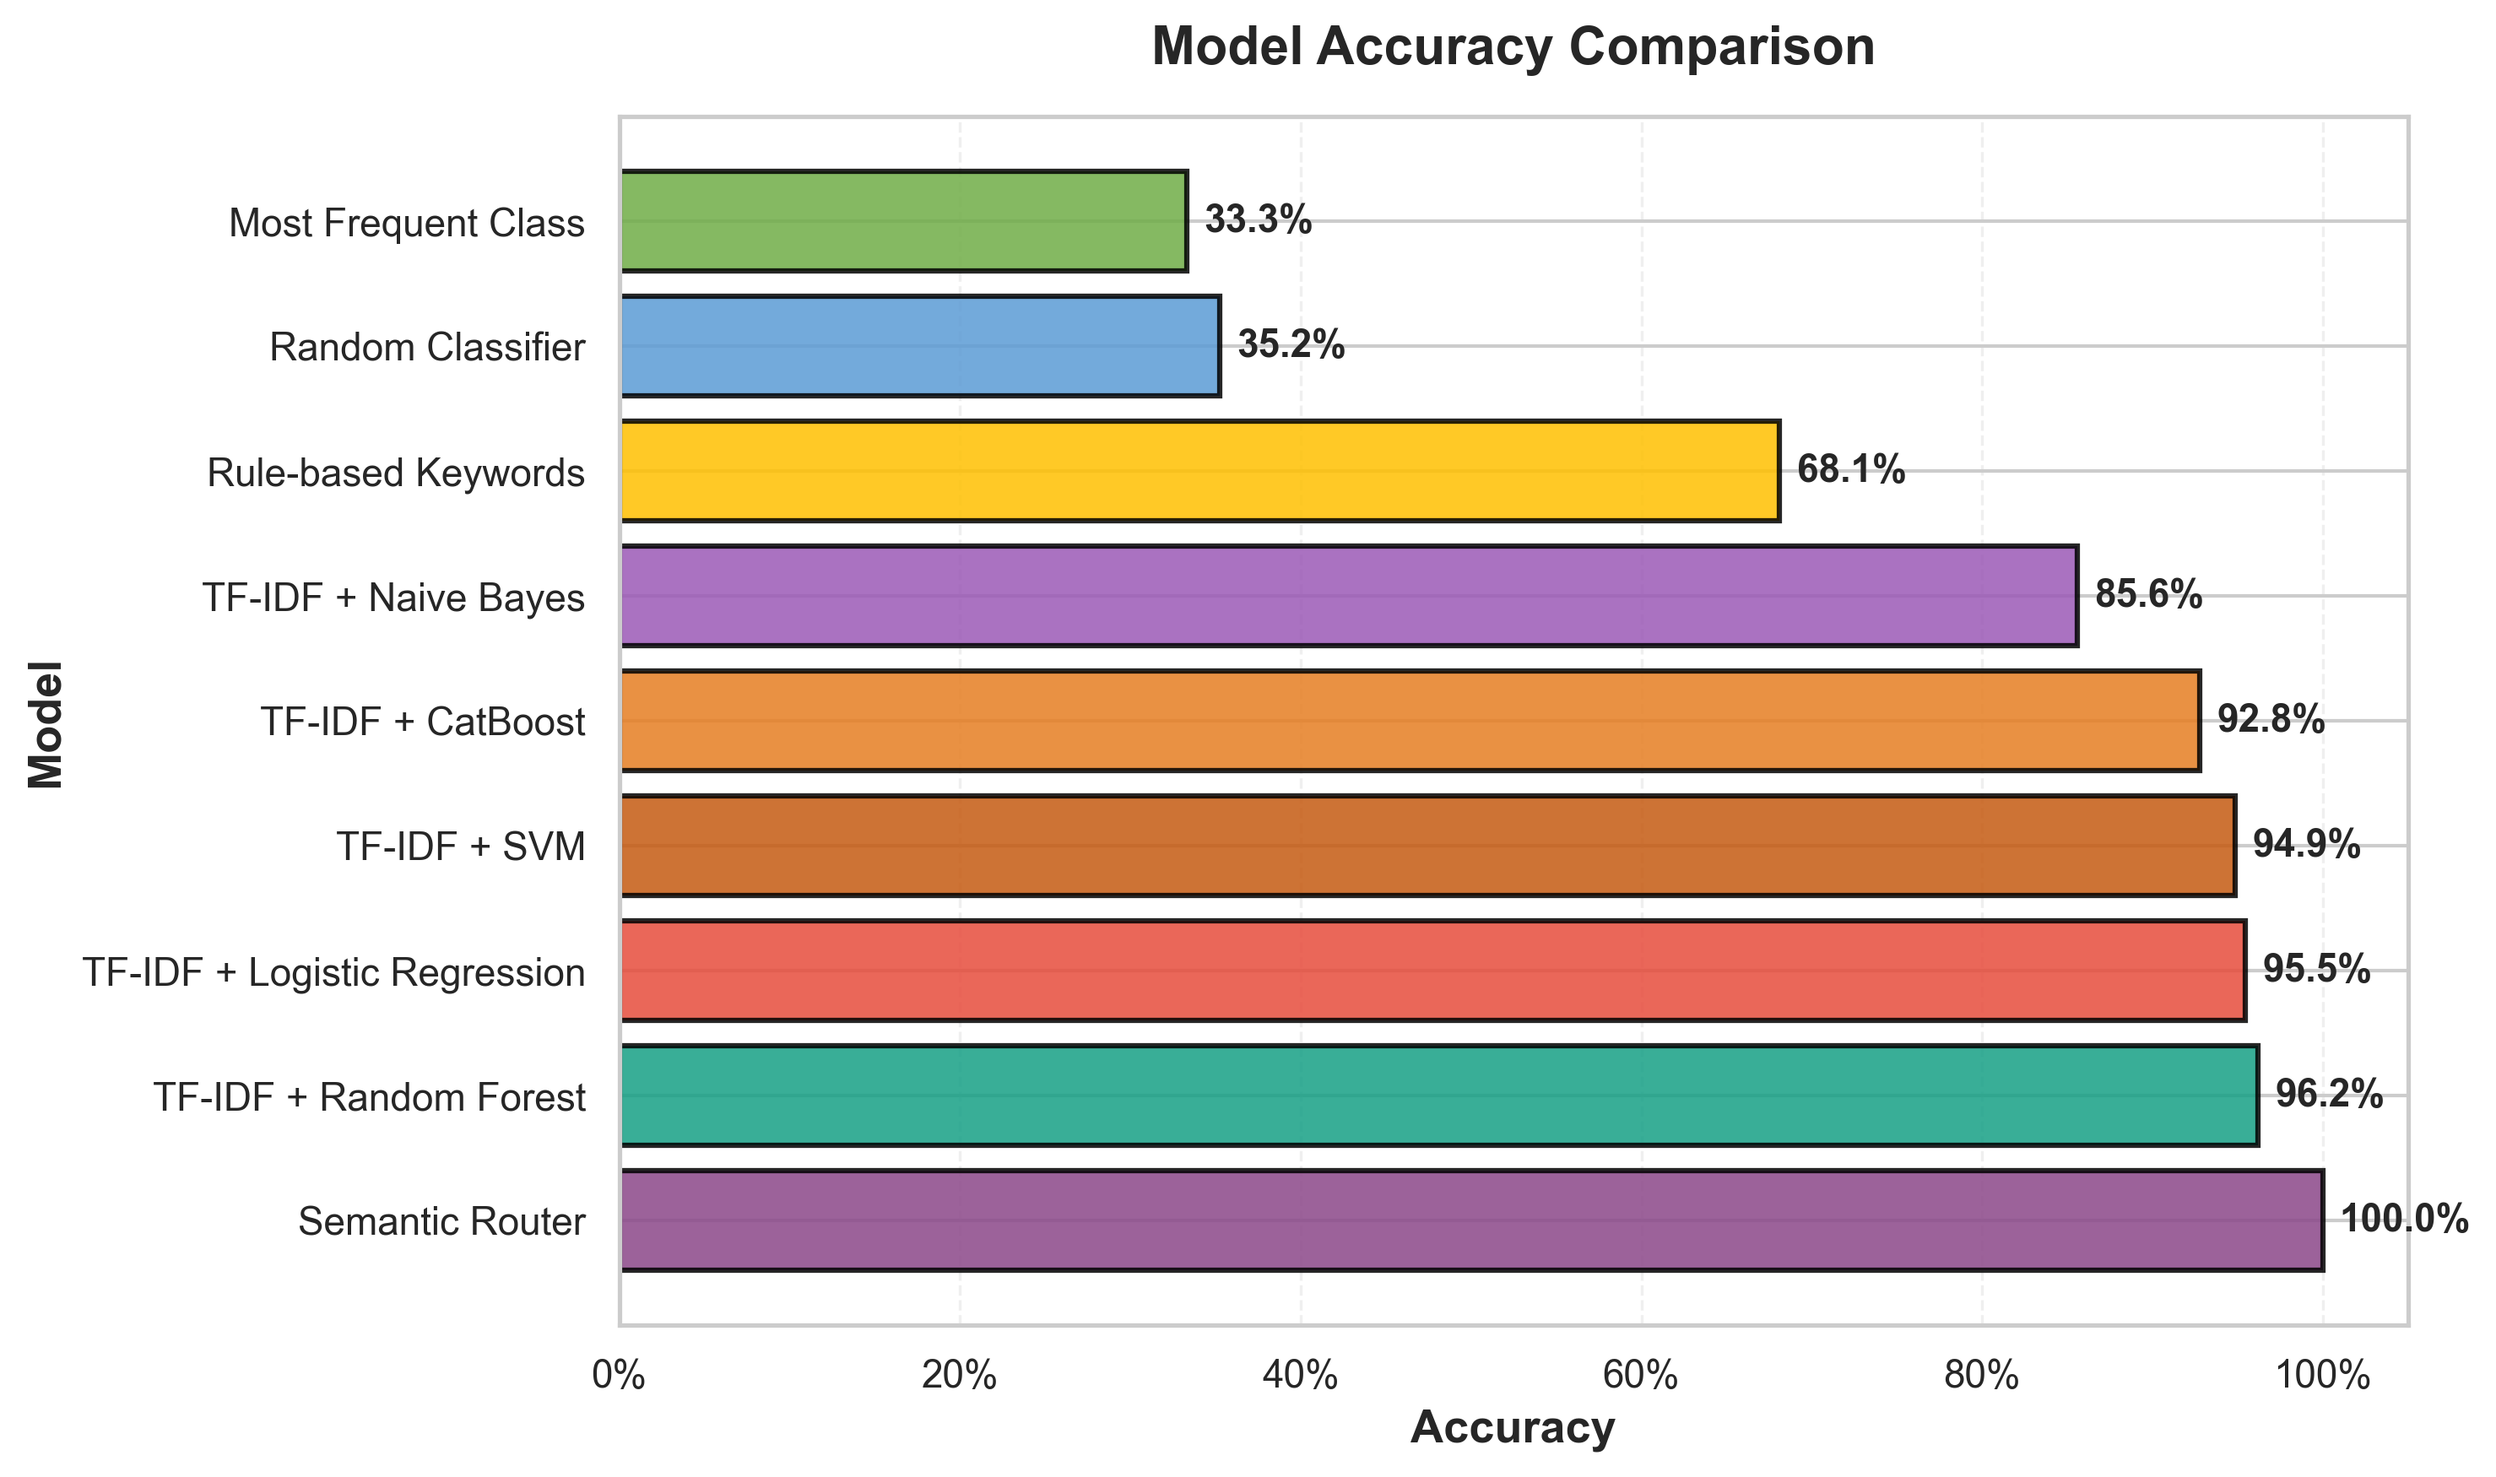
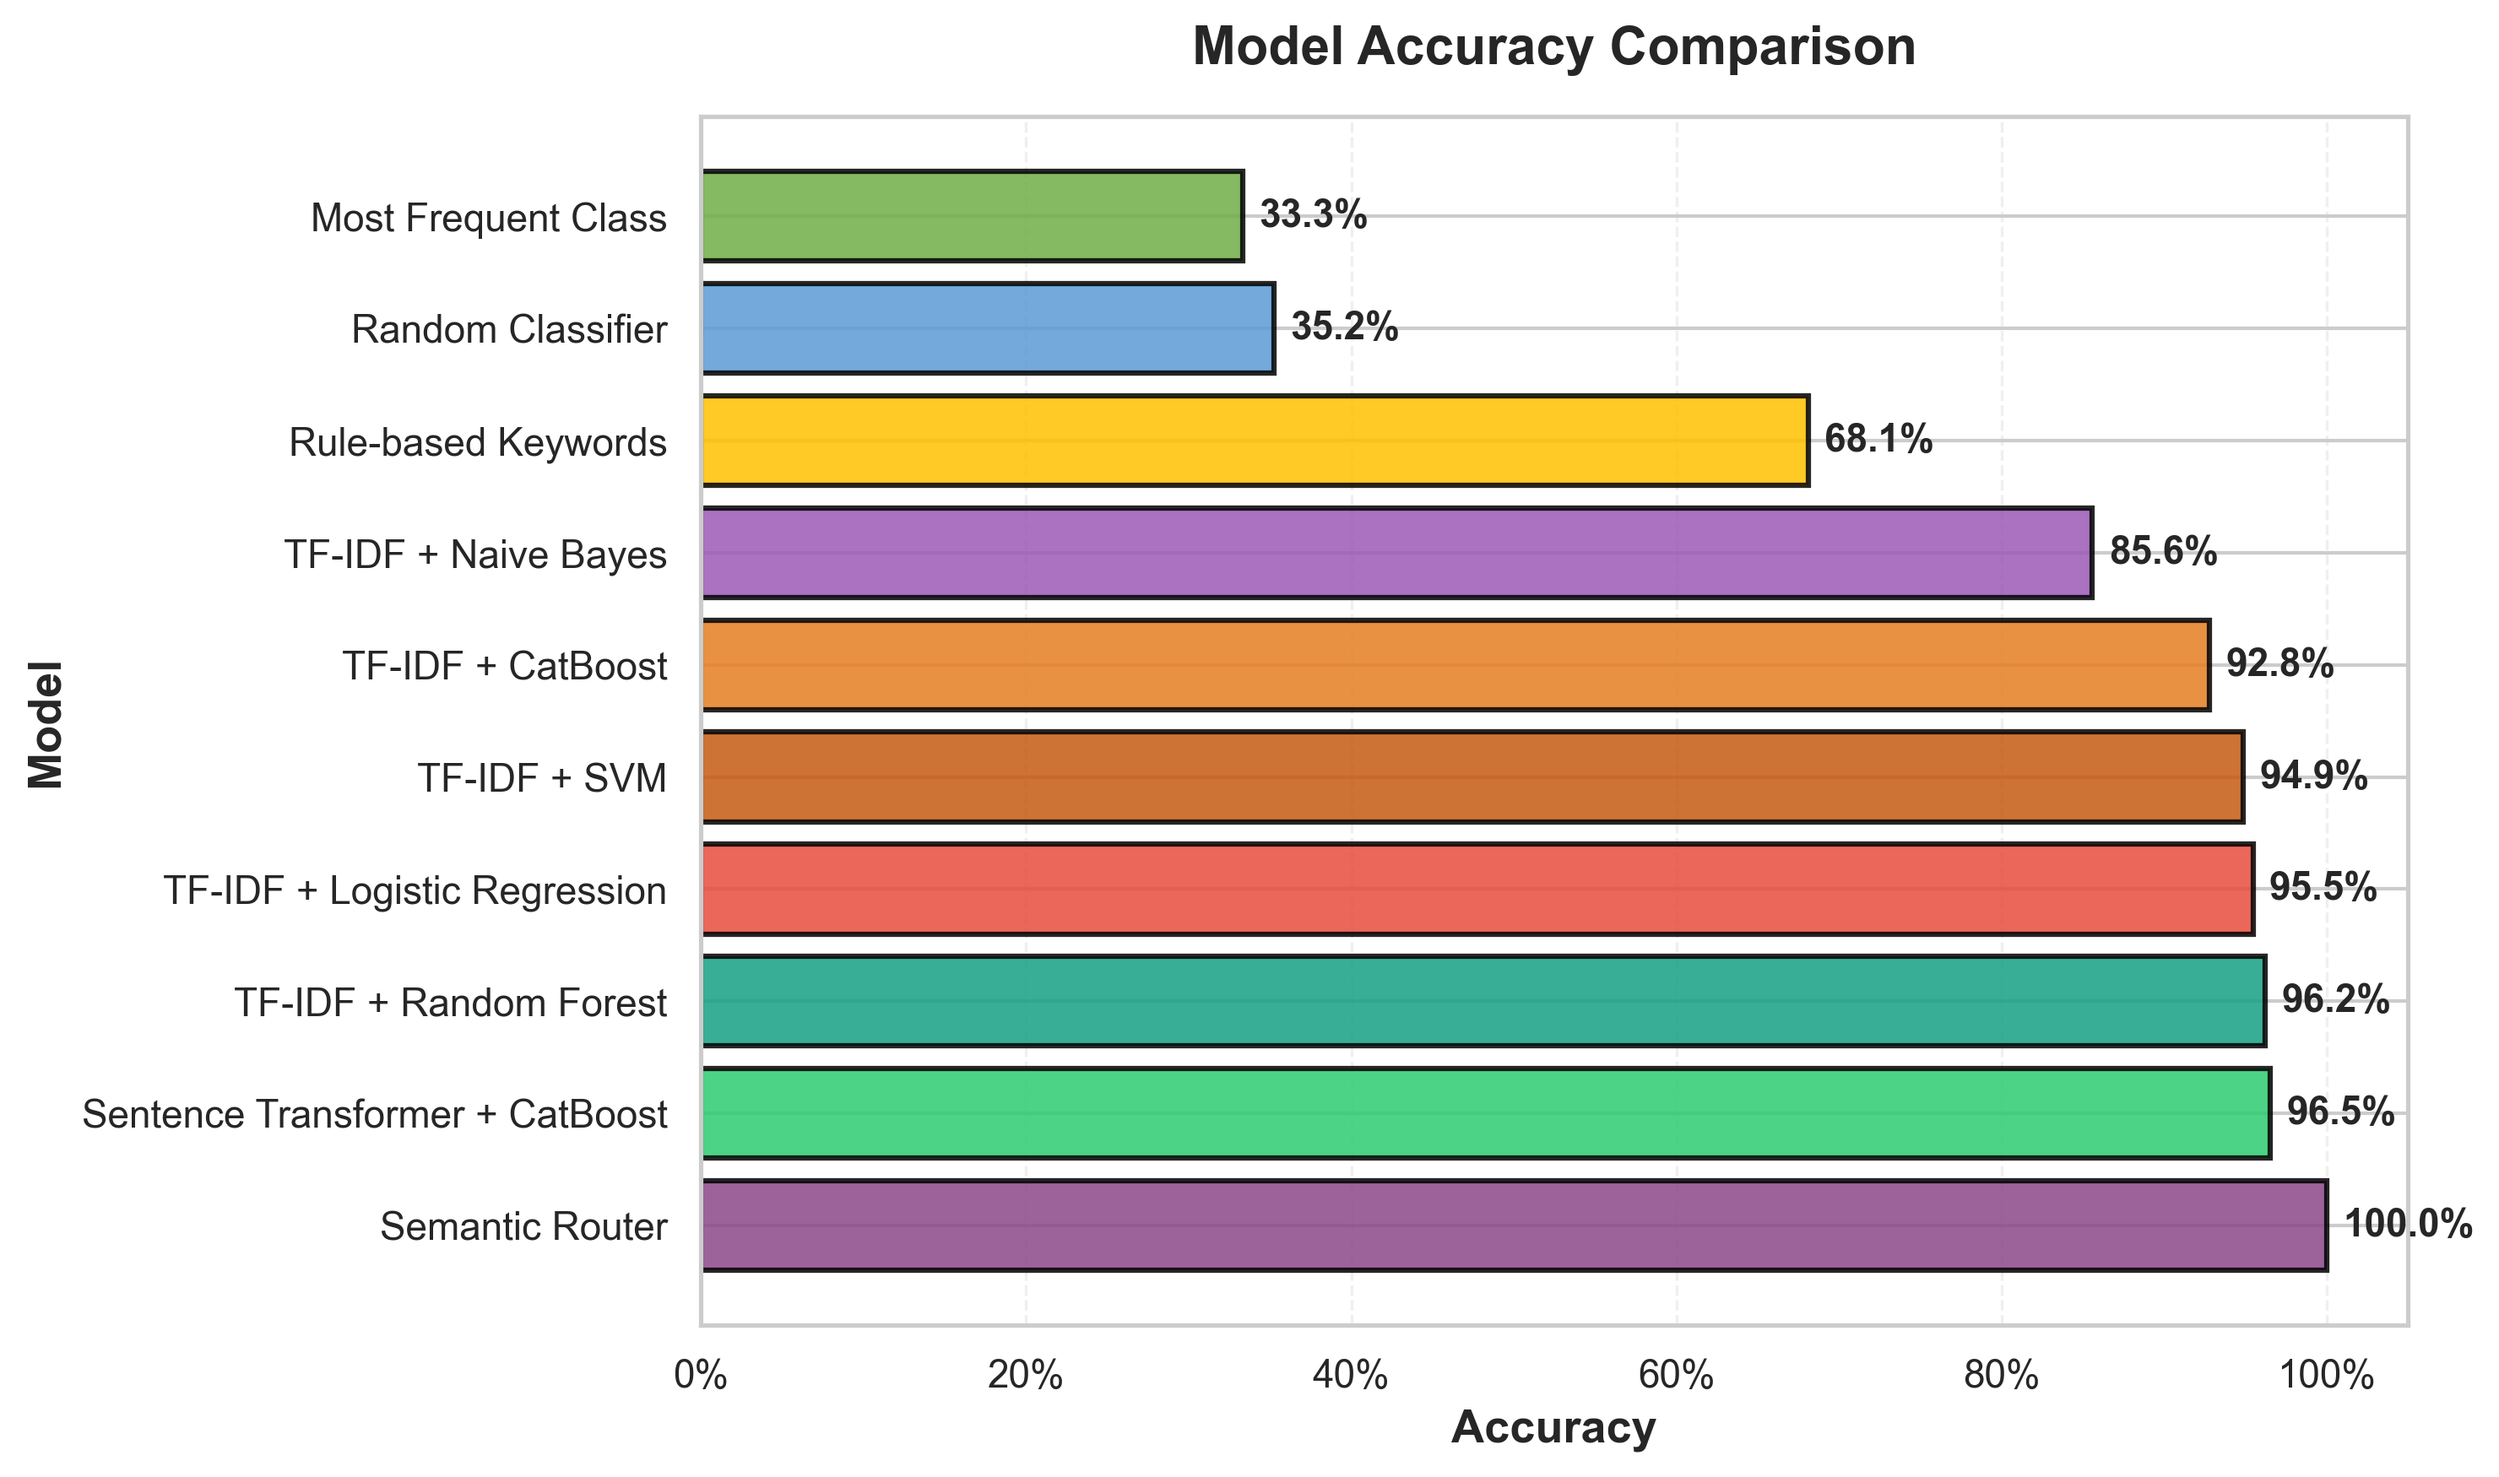
Updated results

diff --git a/evaluation_results/evaluation_report.md b/evaluation_results/evaluation_report.md
@@ -1,20 +1,21 @@
 # Comprehensive Evaluation Report
 
-**Date**: 2025-11-06 01:09:33
+**Date**: 2025-11-06 03:08:01
 
 ## 1. Overall Performance Comparison
 
 | Model | Accuracy | Avg Latency (ms) | Throughput (q/s) |
 |---|---|---|---|
-| **Semantic Router** | **1.000** | 43.915 | 22.77 |
-| **TF-IDF + Random Forest** | **0.962** | 0.357 | 2803.27 |
-| **TF-IDF + Logistic Regression** | **0.955** | 0.016 | 64229.34 |
-| **TF-IDF + SVM** | **0.949** | 0.488 | 2050.69 |
-| **TF-IDF + CatBoost** | **0.928** | 1.950 | 512.93 |
-| **TF-IDF + Naive Bayes** | **0.856** | 0.001 | 746013.49 |
-| **Rule-based Keywords** | **0.681** | 0.026 | 38669.88 |
-| **Random Classifier** | **0.352** | 0.000 | 5459508.64 |
-| **Most Frequent Class** | **0.333** | 0.000 | 8166042.96 |
+| **Semantic Router** | **1.000** | 53.624 | 18.65 |
+| **Sentence Transformer + CatBoost** | **0.965** | 45.439 | 22.01 |
+| **TF-IDF + Random Forest** | **0.962** | 0.362 | 2763.58 |
+| **TF-IDF + Logistic Regression** | **0.955** | 0.016 | 63371.02 |
+| **TF-IDF + SVM** | **0.949** | 0.478 | 2092.92 |
+| **TF-IDF + CatBoost** | **0.928** | 1.997 | 500.79 |
+| **TF-IDF + Naive Bayes** | **0.856** | 0.001 | 800560.39 |
+| **Rule-based Keywords** | **0.681** | 0.028 | 35195.05 |
+| **Random Classifier** | **0.352** | 0.000 | 5295675.34 |
+| **Most Frequent Class** | **0.333** | 0.000 | 7069218.94 |
 
 ## 2. Per-Category Performance (F1-Score)
 
@@ -29,6 +30,7 @@
 | TF-IDF + Random Forest | 0.992 | 0.949 | 0.946 |
 | TF-IDF + Naive Bayes | 0.864 | 0.776 | 0.915 |
 | TF-IDF + CatBoost | 0.985 | 0.908 | 0.889 |
+| Sentence Transformer + CatBoost | 0.979 | 0.960 | 0.957 |
 
 ## 3. Statistical Significance (vs Semantic Router)
 
@@ -42,6 +44,7 @@
 | Semantic Router vs TF-IDF + Random Forest | 11.642 | 0.0003 | ✅ Yes |
 | Semantic Router vs TF-IDF + Naive Bayes | 15.019 | 0.0001 | ✅ Yes |
 | Semantic Router vs TF-IDF + CatBoost | 12.780 | 0.0002 | ✅ Yes |
+| Semantic Router vs Sentence Transformer + CatBoost | 8.835 | 0.0009 | ✅ Yes |
 
 ## 4. Token Length Impact Analysis
 
@@ -104,4 +107,14 @@
 | 11-20 | 355 | 92.11% |
 | 21-50 | 685 | 86.72% |
 | 51+ | 1035 | 95.85% |
+
+### Sentence Transformer + CatBoost
+
+| Token Range | Sample Count | Accuracy |
+|---|---|---|
+| 1-5 | 38 | 100.00% |
+| 6-10 | 286 | 97.55% |
+| 11-20 | 355 | 94.37% |
+| 21-50 | 685 | 95.77% |
+| 51+ | 1035 | 97.39% |
 
